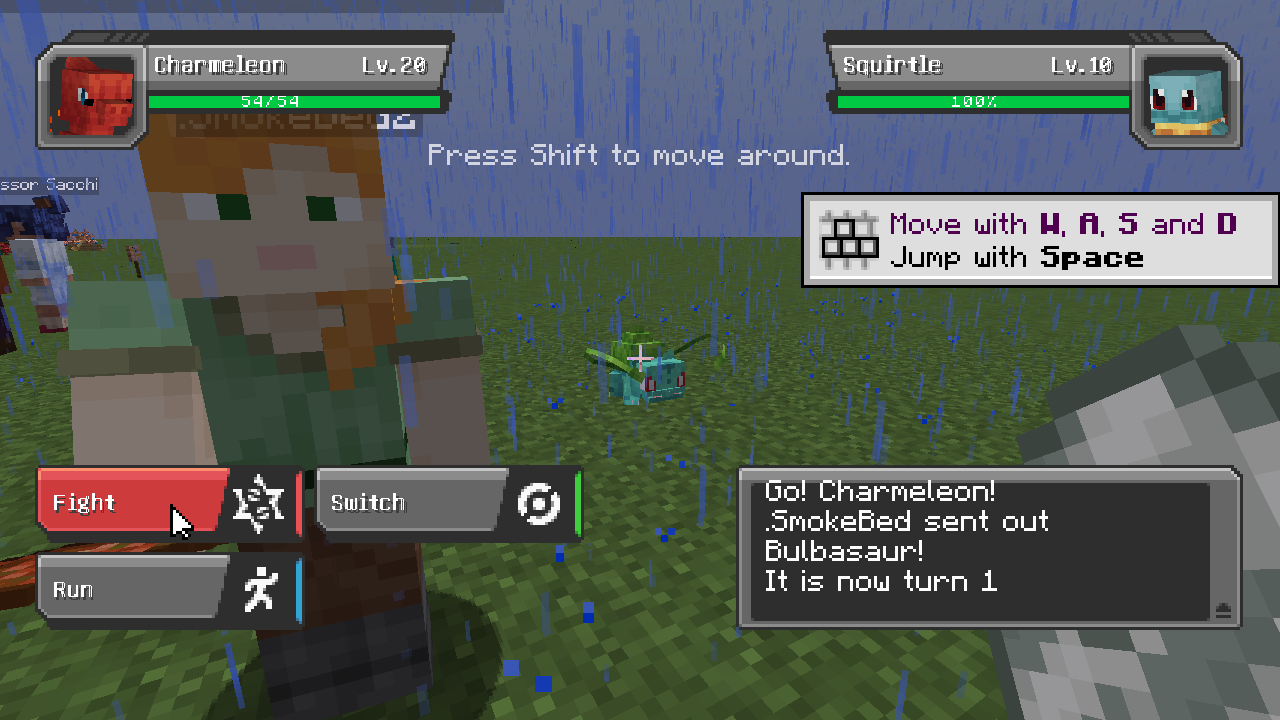
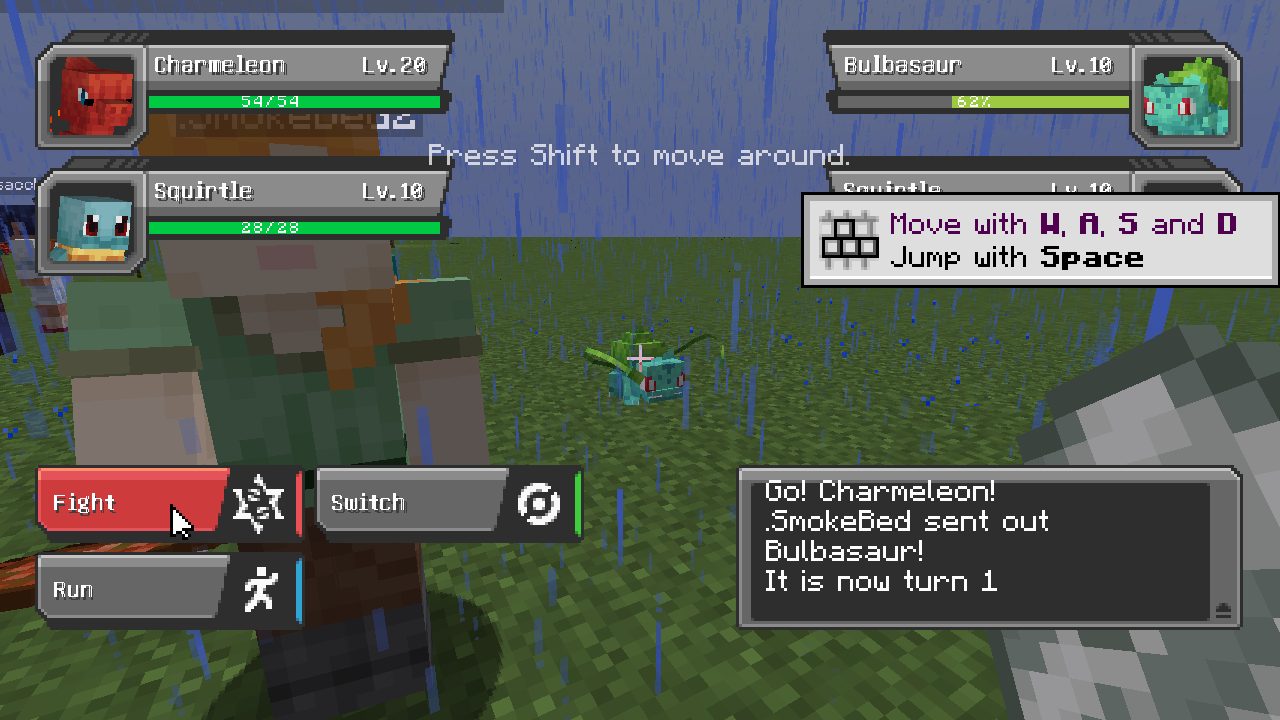
fabric: Java battle panels for every active Pokémon per side; target chest closes; NPC name tags translated per player; Pokédex form/gender views
Claude-Session: https://claude.ai/code/session_013qmVWfL2vttKu2B98Mqwws

diff --git a/fabric/mod/src/main/java/io/github/kahngjoonkoh/cobblemonlink/fabric/Dex.java b/fabric/mod/src/main/java/io/github/kahngjoonkoh/cobblemonlink/fabric/Dex.java
@@ -62,6 +62,35 @@ public final class Dex {
         return out.isEmpty() ? order() : out;
     }
 
+    /** A way a species can look: its forms, and a female look where it differs. */
+    record Variant(String label, String look) {}
+
+    static List<Variant> variants(ServerPlayer p, Species sp) {
+        String id = sp.getResourceIdentifier().getPath();
+        List<Variant> out = new ArrayList<>();
+        List<com.cobblemon.mod.common.pokemon.FormData> forms = new ArrayList<>(List.of(sp.getStandardForm()));
+        for (var f : sp.getForms()) if (!forms.contains(f)) forms.add(f);
+        for (var f : forms) {
+            java.util.Set<String> aspects = new java.util.HashSet<>(f.getAspects());
+            String key = "cobblemon.ui.pokedex.info.form." + id + (f == sp.getStandardForm() ? "" : "-" + f.getName().toLowerCase(Locale.ROOT));
+            String label = Lang.has(key) && !Lang.get(p, key).isBlank() ? Lang.get(p, key) : f.getName();
+            String look = Models.look(id, aspects);
+            if (out.stream().noneMatch(v -> v.look.equals(look))) out.add(new Variant(label, look));
+            aspects.add("female");
+            String female = Models.look(id, aspects);
+            if (!female.equals(look) && out.stream().noneMatch(v -> v.look.equals(female))) out.add(new Variant(label + " ♀", female));
+        }
+        return out;
+    }
+
+    /** Each player's chosen look in the entry (index into variants), per species. */
+    static final java.util.Map<java.util.UUID, Integer> VARIANT = new java.util.concurrent.ConcurrentHashMap<>();
+
+    static Variant variant(ServerPlayer p, Species sp) {
+        var vs = variants(p, sp);
+        return vs.get(Math.floorMod(VARIANT.getOrDefault(p.getUUID(), 0), vs.size()));
+    }
+
     /** Pick a dex: a dropdown on Bedrock (then the Pokédex again), the next one on Java. */
     static void chooseRegion(ServerPlayer p, Runnable then) {
         var all = regions();
@@ -132,7 +161,13 @@ public final class Dex {
         o.add(new Forms.Opt(">", "none", () -> bedrock(p, pg + 1, null)));
         // the page counter picks the dex (Cobblemon's regional Pokédexes)
         o.add(new Forms.Opt((pg + 1) + "/" + pages, "none", () -> chooseRegion(p, () -> bedrock(p, 0, null))));
-        o.add(new Forms.Opt(Lang.t(p, "cobblemon.ui.info.pokedex_number") + String.format(" %04d", sel.getNationalPokedexNumber()), seen ? picture(sel) : "pokedex/unknown", stay));
+        // the picture: the chosen form / gender; tapping it shows the next one
+        Variant look = variant(p, sel);
+        o.add(new Forms.Opt(Lang.t(p, "cobblemon.ui.info.pokedex_number") + String.format(" %04d", sel.getNationalPokedexNumber()),
+                seen ? (Models.has(look.look()) ? "body/" + look.look() : picture(sel)) : "pokedex/unknown", () -> {
+                    VARIANT.merge(p.getUUID(), 1, Integer::sum);
+                    bedrock(p, pg, sel);
+                }));
         List<String> types = new ArrayList<>();
         sel.getTypes().forEach(t -> types.add(t.getName().toLowerCase(Locale.ROOT)));
         for (int t = 0; t < 2; t++) o.add(new Forms.Opt("", seen && t < types.size() ? "pc/type/" + types.get(t) : "none", stay));
@@ -146,10 +181,10 @@ public final class Dex {
             Species sp = here.get(i);
             var kk = knowledge(p, sp);
             o.add(new Forms.Opt(String.format("%04d", sp.getNationalPokedexNumber()) + (kk == PokedexEntryProgress.OWNED ? "c" : "") + (sp == sel ? "*" : ""),
-                    kk != PokedexEntryProgress.UNREGISTERED ? picture(sp) : "pokedex/unknown", () -> bedrock(p, pg, sp)));
+                    kk != PokedexEntryProgress.UNREGISTERED ? picture(sp) : "pokedex/unknown", () -> { VARIANT.put(p.getUUID(), 0); bedrock(p, pg, sp); }));
         }
         String entry = caught ? Starters.desc(p, sel.getResourceIdentifier().getPath()) : seen ? Lang.t(p, "cobblemonlink.dex.catch_to_read") : "";
-        String name = seen ? Lang.resolve(p, sel.getTranslatedName()).getString() : "???";
+        String name = seen ? Lang.resolve(p, sel.getTranslatedName()).getString() + (variants(p, sel).size() > 1 ? " (" + look.label() + ")" : "") : "???";
         Forms.send(p, name + Forms.MARK + 8, entry, o, c -> { if (c >= 0 && c < o.size()) o.get(c).action().run(); });
     }
 

diff --git a/fabric/mod/src/main/java/io/github/kahngjoonkoh/cobblemonlink/fabric/BattleUi.java b/fabric/mod/src/main/java/io/github/kahngjoonkoh/cobblemonlink/fabric/BattleUi.java
@@ -242,11 +242,13 @@ public final class BattleUi {
         var o = new Ui.Overlay();
         o.fade = hidden ? 4 : 0;
         PokemonBattle b = battle(player);
+        // a tile per active Pokémon, stacked down each corner (doubles, triples, multi): left your side, right theirs
+        int[] row = {0, 0};
         if (b != null) for (ActiveBattlePokemon ap : b.getActivePokemon()) {
             BattlePokemon bp = ap.getBattlePokemon();
             if (bp == null) continue;
-            boolean own = watching == null ? ap.getActor() == actor() : java.util.Arrays.asList(b.getSide1().getActors()).contains(ap.getActor());
-            panel(o, own ? Ui.Overlay.TL : Ui.Overlay.TR, own ? 12 : -152, bp, own);
+            boolean own = ownSide(b, ap);
+            panel(o, own ? Ui.Overlay.TL : Ui.Overlay.TR, own ? 12 : -152, 42 * row[own ? 0 : 1]++, bp, own);
         }
         o.fade = hidden ? 6 : 0;
         o.glyph(Ui.Overlay.BR, -181, 85, '\ue103', 170);
@@ -270,18 +272,25 @@ public final class BattleUi {
     }
 
     /** One 140x40 tile: portrait ring, name, level, HP bar; yours with HP numbers, the foe's a percentage. */
-    private void panel(Ui.Overlay o, int corner, int x, BattlePokemon bp, boolean own) {
+    /** On the player's side (a spectator: the first side): yours and your partners' Pokémon. */
+    private boolean ownSide(PokemonBattle b, ActiveBattlePokemon ap) {
+        BattleActor me = actor();
+        var side = me != null ? me.getSide() : b.getSide1();
+        return java.util.Arrays.asList(side.getActors()).contains(ap.getActor());
+    }
+
+    private void panel(Ui.Overlay o, int corner, int x, int dy, BattlePokemon bp, boolean own) {
         var mon = bp.getEffectedPokemon();
-        o.glyph(corner, x + (own ? 5 : 107), 18, '\ue102', 29);
+        o.glyph(corner, x + (own ? 5 : 107), 18 + dy, '\ue102', 29);
         var face = Ui.portrait(Summary.look(mon), !own);
-        if (face != null) o.add(corner, x + (own ? 5 : 107), 18, face, 29);
-        o.glyph(corner, x, 10, own ? '\ue100' : '\ue101', 141);
+        if (face != null) o.add(corner, x + (own ? 5 : 107), 18 + dy, face, 29);
+        o.glyph(corner, x, 10 + dy, own ? '\ue100' : '\ue101', 141);
         int ib = x + (own ? 40 : 7);
         float ratio = Math.clamp((float) bp.getHealth() / Math.max(1, bp.getMaxHealth()), 0f, 1f);
         int bar = Math.round(ratio * 97);
-        o.label(corner, ib, 17, name(mon)).label(corner, ib + 69, 17, Lang.t(player, "cobblemon.ui.lv")).label(corner, ib + 82, 17, String.valueOf(mon.getLevel()));
-        if (bar > 0) o.glyph(corner, own ? ib - 2 : ib - 2 + 97 - bar, 29, (char) (0xE110 + bar), bar + 1);
-        o.small(corner, ib + (own ? 39 : 44), 28, own ? bp.getHealth() + "/" + bp.getMaxHealth() : (int) Math.ceil(ratio * 100) + "%");
+        o.label(corner, ib, 17 + dy, own ? name(mon) : seen(mon)).label(corner, ib + 69, 17 + dy, Lang.t(player, "cobblemon.ui.lv")).label(corner, ib + 82, 17 + dy, String.valueOf(mon.getLevel()));
+        if (bar > 0) o.glyph(corner, own ? ib - 2 : ib - 2 + 97 - bar, 29 + dy, (char) (0xE110 + bar), bar + 1);
+        o.small(corner, ib + (own ? 39 : 44), 28 + dy, own ? bp.getHealth() + "/" + bp.getMaxHealth() : (int) Math.ceil(ratio * 100) + "%");
     }
 
     // ---- menus ----
@@ -355,8 +364,10 @@ public final class BattleUi {
             return;
         }
         Chest c = new Chest(1, title);
-        for (int i = 0; i < Math.min(9, opts.size()); i++)
-            c.set(i, Chest.icon(net.minecraft.world.item.Items.TARGET, opts.get(i).text(), List.of()), opts.get(i).action());
+        for (int i = 0; i < Math.min(9, opts.size()); i++) {
+            Runnable r = opts.get(i).action();
+            c.set(i, Chest.icon(net.minecraft.world.item.Items.TARGET, opts.get(i).text(), List.of()), () -> { player.closeContainer(); r.run(); });
+        }
         c.open(player);
     }
 

diff --git a/fabric/mod/src/main/java/io/github/kahngjoonkoh/cobblemonlink/fabric/DexArt.java b/fabric/mod/src/main/java/io/github/kahngjoonkoh/cobblemonlink/fabric/DexArt.java
@@ -65,11 +65,14 @@ final class DexArt {
             m.on(Art.raw(i % 9, tileRow(i)), b -> {
                 if (sp != v.sel) {
                     v.sel = sp;
+                    Dex.VARIANT.put(p.getUUID(), 0);
                     v.scroll = 0;
                 }
                 show(p, v);
             });
         }
+        for (int c = 1; c <= 3; c++) for (int r = 0; r <= 2; r++) // the picture: the next form / gender
+            m.on(Art.raw(c, r), b -> { Dex.VARIANT.merge(p.getUUID(), b == 1 ? -1 : 1, Integer::sum); show(p, v); });
         m.on(Art.raw(2, 8), b -> Dex.chooseRegion(p, () -> { v.page = 0; v.sel = null; show(p, v); })); // the next regional dex
         m.on(Art.raw(0, 8), b -> { v.page--; show(p, v); });
         m.on(Art.raw(8, 8), b -> { v.page++; show(p, v); });
@@ -127,7 +130,8 @@ final class DexArt {
         s.getTypes().forEach(ty -> types.add(JavaScreens.type(ty)));
         if (seen) {
             Art.glyph(t, 12, 62, (char) (PLATFORM + Ui.TYPES.indexOf(types.getFirst())), 7);
-            var body = Art.body(s.getResourceIdentifier().getPath(), true);
+            var body = Art.body(Dex.variant(p, s).look(), true);
+            if (body == null) body = Art.body(s.getResourceIdentifier().getPath(), true);
             if (body != null) Art.put(t, 24, 29, body, 45, 7);
             for (int k = 0; k < types.size(); k++) Art.glyph(t, 12 + 8 * k, 29, (char) (TYPE_ICON + Ui.TYPES.indexOf(types.get(k))), 7);
         } else {
@@ -135,7 +139,8 @@ final class DexArt {
             Art.glyph(t, 38, 40, UNKNOWN_BIG, 7);
         }
         Art.text(t, "pc_bold", 84, 29, String.format("%04d", s.getNationalPokedexNumber()), false);
-        Art.text(t, "pc_bold", 104, 29, Art.fit("pc_bold", seen ? Lang.resolve(p, s.getTranslatedName()).getString() : "-----", 66), false);
+        String formName = Dex.variants(p, s).size() > 1 ? " " + Dex.variant(p, s).label() : "";
+        Art.text(t, "pc_bold", 104, 29, Art.fit("pc_bold", seen ? Art.plain(Lang.resolve(p, s.getTranslatedName()).getString() + formName) : "-----", 66), false);
         List<String> lines = page(p, v, s, seen, caught);
         int per = LINES, from = lines.size() <= per ? 0 : Math.floorMod(v.scroll, (lines.size() + per - 1) / per) * per;
         for (int k = from; k < Math.min(lines.size(), from + per); k++) {

diff --git a/fabric/mod/src/main/java/io/github/kahngjoonkoh/cobblemonlink/fabric/Mons.java b/fabric/mod/src/main/java/io/github/kahngjoonkoh/cobblemonlink/fabric/Mons.java
@@ -135,6 +135,15 @@ public final class Mons {
         return npcLooks.getOrDefault(n.getResourceIdentifier().toString(), "npc_trainer");
     }
 
+    /**
+     * An NPC's name for its tag: Cobblemon keeps a lang key as plain text ("npc.sacchi.name"); as a translatable it is
+     * written out by each Java client in its own language (Cobblemon's lang files are in the pack).
+     */
+    static net.minecraft.network.chat.Component npcName(com.cobblemon.mod.common.entity.npc.NPCEntity n) {
+        String s = n.getName().getString();
+        return Lang.has(s) ? net.minecraft.network.chat.Component.translatable(s) : n.getName();
+    }
+
     /** A Cobblemon NPC drawn like a Pokémon: its own model and skin, its name above. */
     private static void npc(com.cobblemon.mod.common.entity.npc.NPCEntity n, ServerLevel level) {
         Models.Model m = Models.get(npcLook(n));
@@ -145,7 +154,7 @@ public final class Mons {
                 level.getChunkSource().broadcast(n, new ClientboundCustomPayloadPacket(GeyserUtilsPayload.anims(n.getId(), anims)));
             }
         };
-        var name = new eu.pb4.polymer.virtualentity.api.elements.TextDisplayElement(Lang.resolve(n.getName())); // ponytail: in English for everyone (one display for all viewers)
+        var name = new eu.pb4.polymer.virtualentity.api.elements.TextDisplayElement(npcName(n));
         name.setBillboardMode(net.minecraft.world.entity.Display.BillboardConstraints.CENTER);
         name.setOffset(new net.minecraft.world.phys.Vec3(0, n.getBbHeight() + 0.3, 0));
         name.setViewRange(0.5f);

diff --git a/fabric/mod/src/main/java/io/github/kahngjoonkoh/cobblemonlink/fabric/Mixins.java b/fabric/mod/src/main/java/io/github/kahngjoonkoh/cobblemonlink/fabric/Mixins.java
@@ -66,7 +66,8 @@ public final class Mixins {
     /** An NPC for a client without the mod: an unlisted player entry (its name, ≤16 letters) and a player entity. */
     public static net.minecraft.network.protocol.Packet<?> npcSpawn(net.minecraft.network.protocol.game.ClientboundAddEntityPacket a,
             com.cobblemon.mod.common.entity.npc.NPCEntity npc, ServerPlayer p) {
-        String name = Lang.resolve(p, npc.getName()).getString().replaceAll("[^A-Za-z0-9_]", "");
+        String raw = npc.getName().getString(); // Cobblemon may keep a lang key as plain text
+        String name = (Lang.has(raw) ? Lang.get(p, raw) : Lang.resolve(p, npc.getName()).getString()).replaceAll("[^A-Za-z0-9_]", "");
         if (name.length() > 16) name = name.substring(0, 16);
         if (name.isEmpty()) name = "NPC";
         var info = eu.pb4.polymer.core.api.entity.PolymerEntityUtils.createMutablePlayerListPacket(java.util.EnumSet.of(

diff --git a/fabric/PARITY.md b/fabric/PARITY.md
@@ -121,7 +121,7 @@ entities), and whether players without the mod can see and use it. Bedrock first
 | Riding Pokémon (1.7+) | ✅ | ✅ | Wheel → Ride (Cobblemon's mount); Java sits on an invisible armor stand scaled to the Pokémon under its id; Cobblemon moves rides on the rider's client, so `Riding` moves it on the server from Minecraft's player input (walk where you look, jump; up/down for flyers and swimmers) — `c11-java-riding.log`, `c11-java-riding-arcanine.png`, `RidingTest`. Bedrock: the same server movement steered by its forward input (`c11-bedrock-riding.log`). ⬜ Cobblemon's per-behaviour handling (stamina, sprint, gliding) |
 | Pokémon on your shoulder | ✅ | ✅ | Wheel → Shoulder (Cobblemon's); `Shoulders` draws it from Minecraft's shoulder data: Java a half-size model on the shoulder (`c10-java-shoulder-pidgey.png`), Bedrock the GeyserModelEngine model on a carrier following the shoulder (`c10-bedrock-shoulder-bot.log`); ⬜ Cobblemon's shoulder pose animations |
 | Sending out / recalling (R key) | 🟡 | ✅ | Summary's Send out / Recall; Sneak + swap hands (F) as Cobblemon's R key through its SendOutPokemonHandler (`c13-java-sendout-key.log`, `c13-java-sendout-key.png`); Bedrock: the same once the swap-hands control is bound (not tried) |
-| PvP battle challenges, multi battles, spectating | ✅ | ✅ | `Social`: right-click (tap) a player → singles / doubles / triples challenge; the challenge form / chest; Cobblemon's challenge handlers; a Java ↔ Bedrock singles battle done (`c7-pvp-java-bedrock.log`, `c7-java-pvp-battle.png`, `c6-java-player-menu.png`). the player menu also offers Spectate (target in a battle: Bedrock HP bars and the log in the action bar `c19-bedrock-spectating.log`, Java the full battle overlay `c19-java-spectating.png`) and Team up (multi battles) with the team request as a form/chest (`c20-bedrock-team-up.log`) and Battle (multi, 2 vs 2): a Java + Bedrock team against two Bedrock players (`c20-multi-battle.log`, `c20-java-multi-battle.png`); a move with several targets asks which; answering turns you to face the asker (Cobblemon only accepts answers to someone you look at); Catch hidden outside wild battles |
+| PvP battle challenges, multi battles, spectating | ✅ | ✅ | `Social`: right-click (tap) a player → singles / doubles / triples challenge; the challenge form / chest; Cobblemon's challenge handlers; a Java ↔ Bedrock singles battle done (`c7-pvp-java-bedrock.log`, `c7-java-pvp-battle.png`, `c6-java-player-menu.png`). the player menu also offers Spectate (target in a battle: Bedrock HP bars and the log in the action bar `c19-bedrock-spectating.log`, Java the full battle overlay `c19-java-spectating.png`) and Team up (multi battles) with the team request as a form/chest (`c20-bedrock-team-up.log`) and Battle (multi, 2 vs 2): a Java + Bedrock team against two Bedrock players (`c20-multi-battle.log`; Java's panels show every Pokémon on each side, `c20-java-multi-battle.png`); a move with several targets asks which (`c20-java-multi-target.png`); answering turns you to face the asker (Cobblemon only accepts answers to someone you look at); Catch hidden outside wild battles |
 | Trading | ✅ | ✅ | `Social`: right-click (tap) a player → Trade; the request, the trade screen read from Cobblemon's ActiveTrade (offer, accept, cancel), Cobblemon's trade handlers; Java ↔ Bedrock trade done end to end (`c6-trade-java-bedrock.log`, `c6-java-trade-screen.png`); ⬜ Cobblemon's trade animation |
 | NPCs (Professor, trainers) and their dialogues | ✅ | ✅ | NPCs drawn like Pokémon with Cobblemon's own NPC models and skins (`tools/npc_models.py`; Java item displays + name, Bedrock GME: `c12-java-npc-models.png` vs `c12-cobblemon-client-npc-reference.png`, `c12-bedrock-npc-models.log`), clicks reach the NPC; without a model, a player-shaped stand-in; `Dialogues`: Cobblemon's dialogue pages, choices and text answers through its dialogue handlers — Bedrock forms (`c12-bedrock-npc-dialogue.log`), Java chests (`c12-java-npc-dialogue.png`, `c12-java-npc-villager.png`). Java types text answers on a sign editor shown only to them (`Signs`, `c12-java-dialogue-text.log`). ⬜ player-chosen NPC skins ("variable" textures), NPC walk poses (Cobblemon's are procedural) |
 | Fishing with Poké Rods (bobber, bites, reeling) | ✅ | ✅ | Cobblemon's fishing runs; its bobber sent as Minecraft's hook owned by the angler (the client drops a hook without one), no name tag (`c8-java-poke-rod-bobber.png`, `c8-bedrock-bobber-bot.log`); ⬜ the Poké Ball-coloured bobber model |
